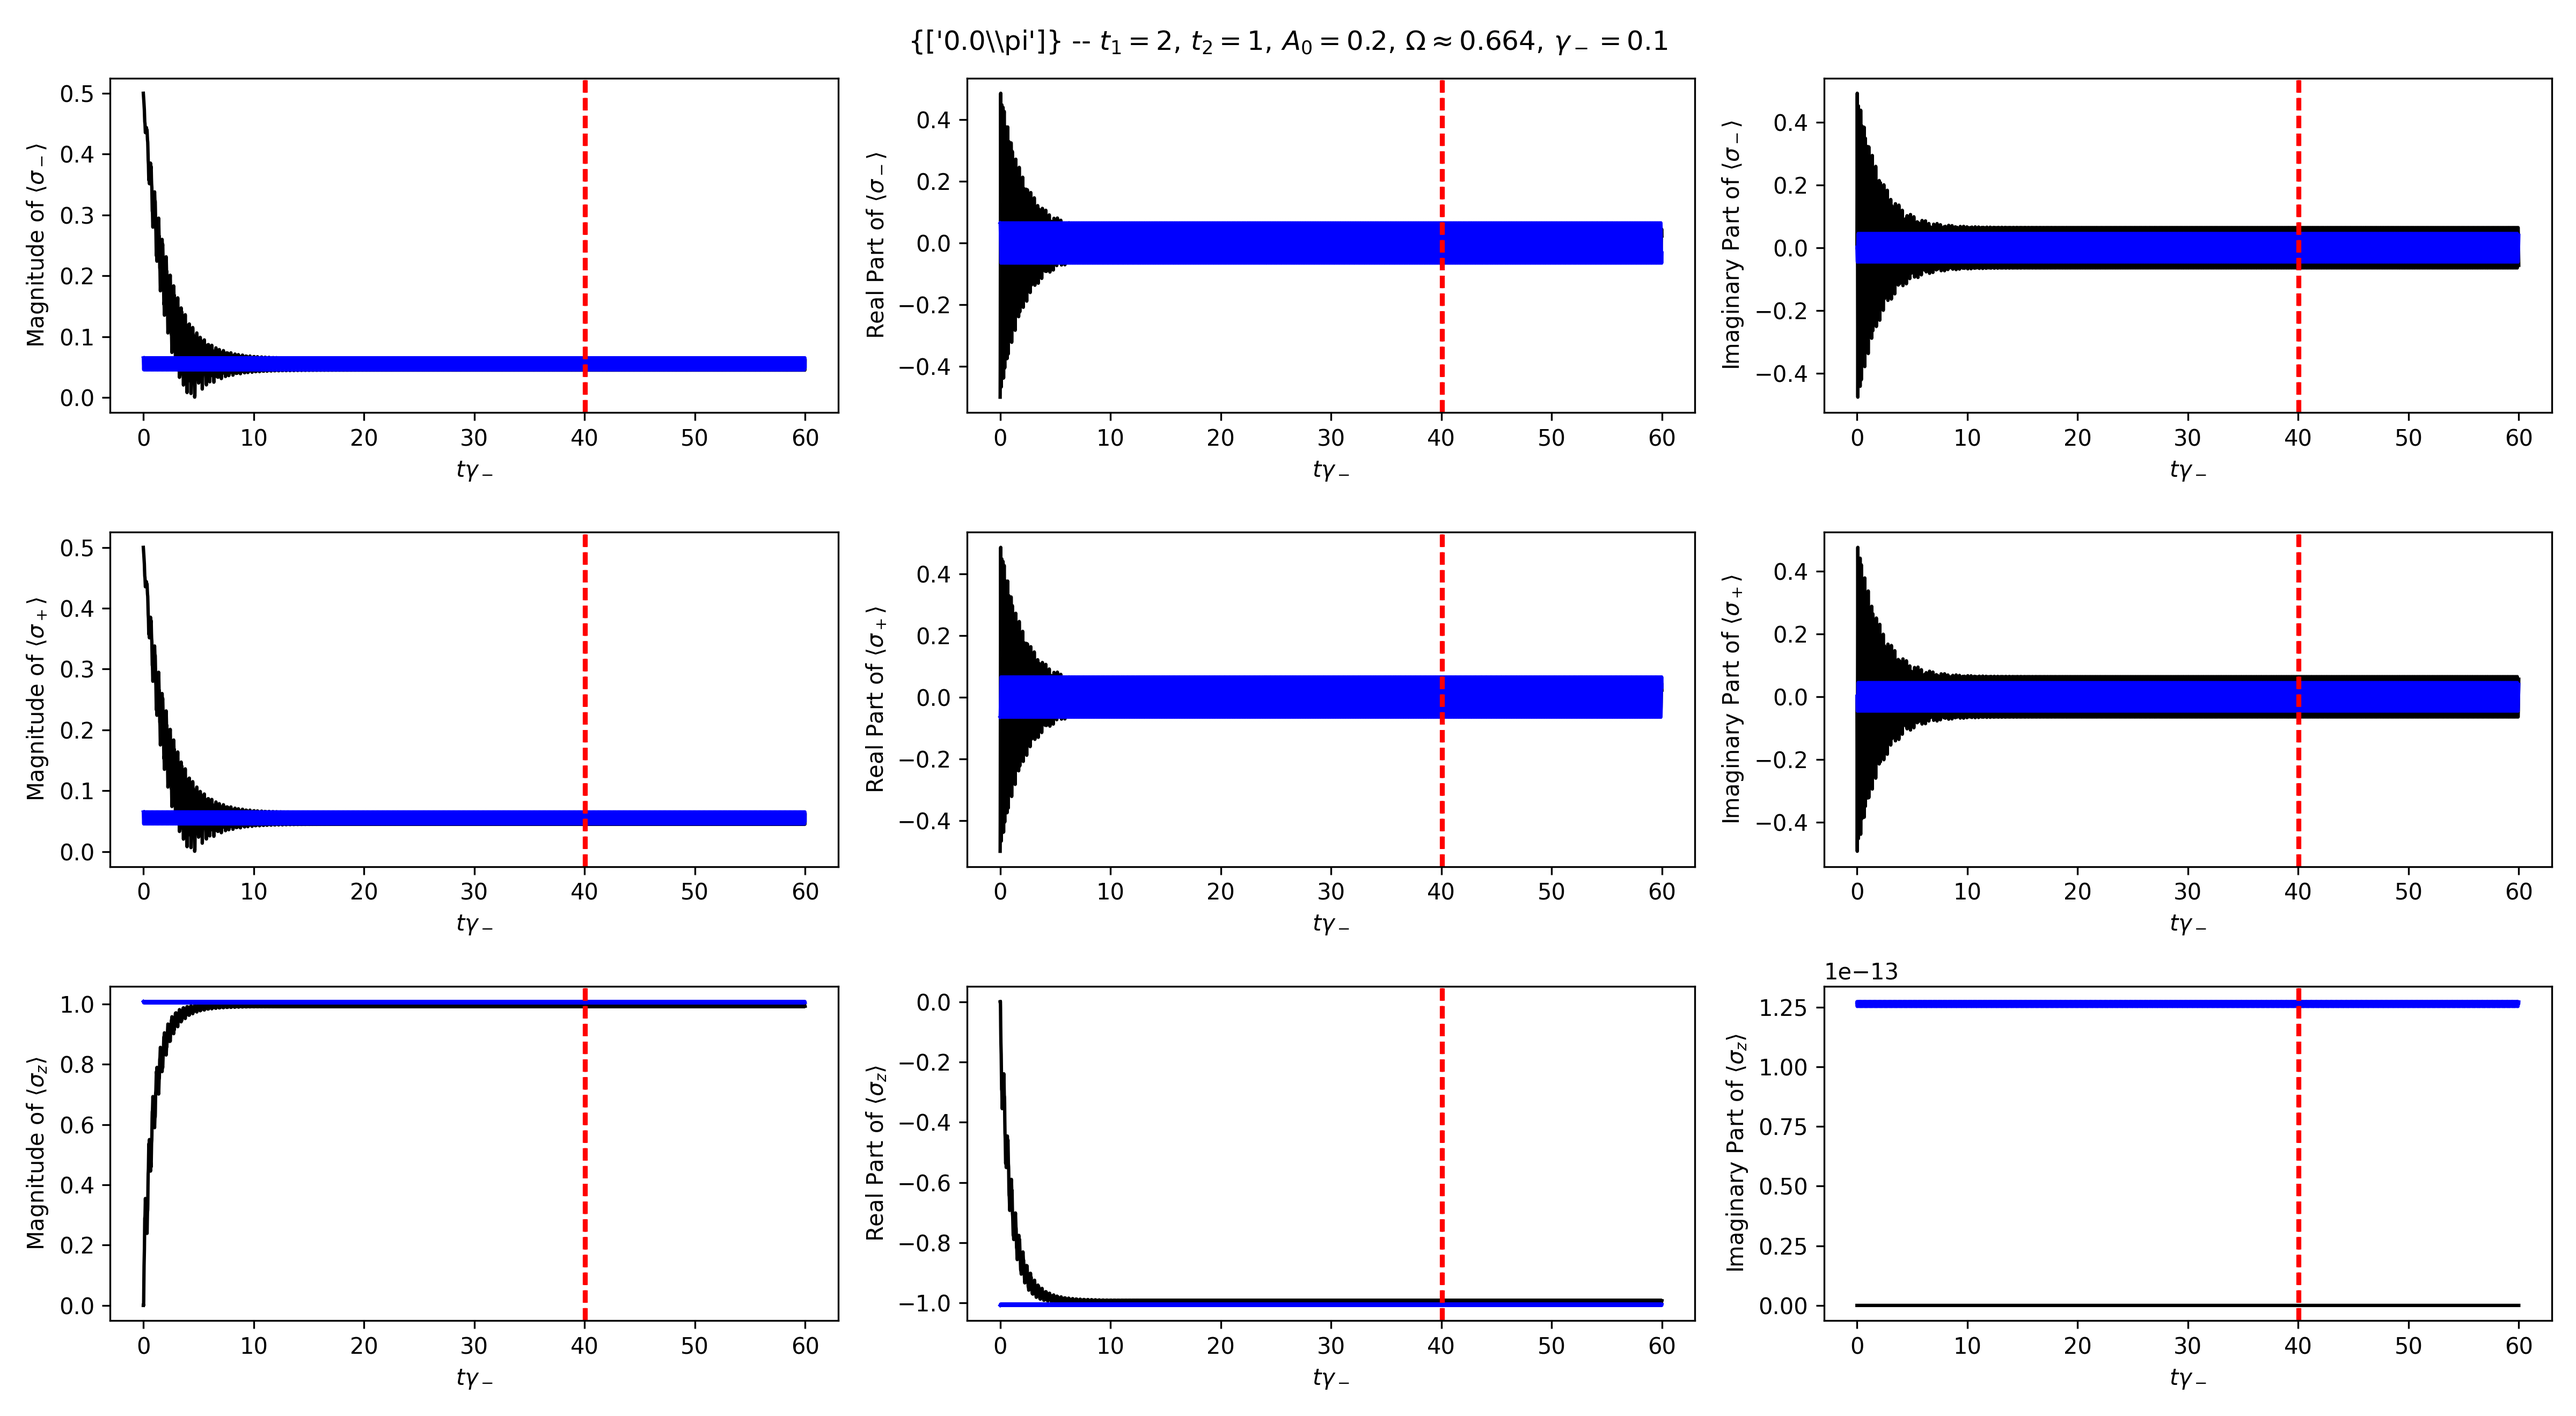
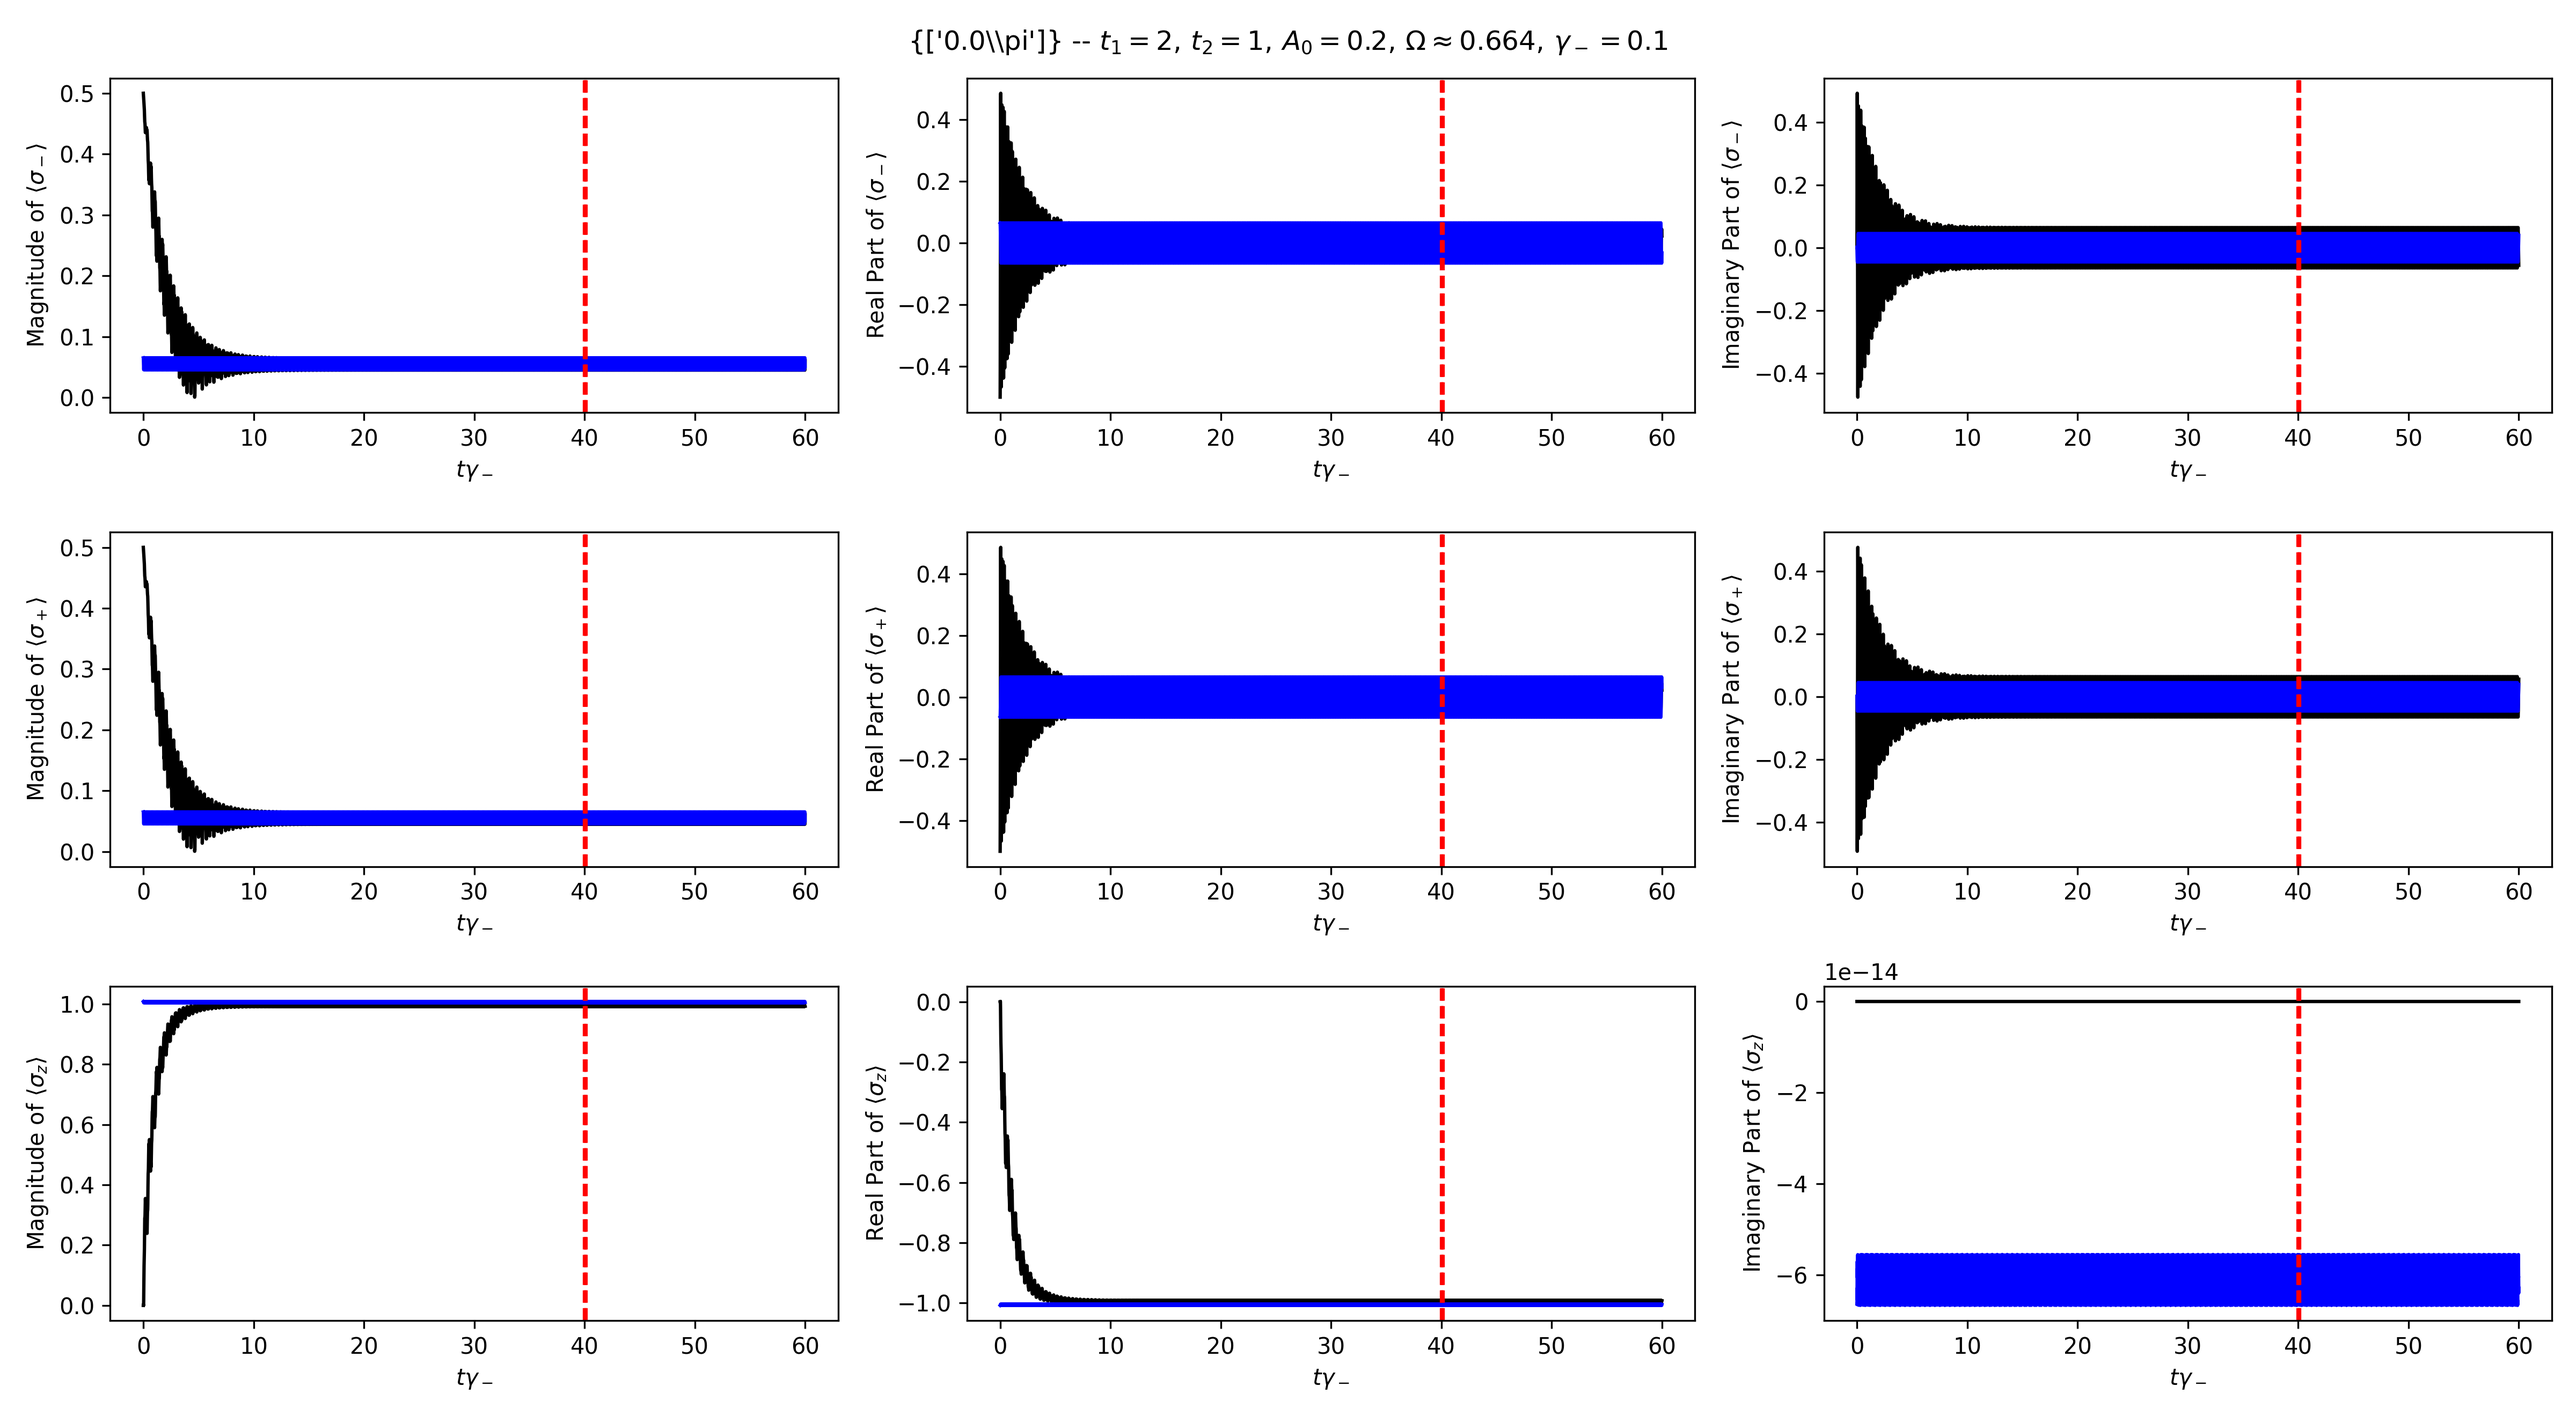
Tried with more coefficients, didn't fix the problem.

Changed region(s): [[0.7188, 0.8697, 1.0, 0.9318], [0.7188, 0.6833, 0.9688, 0.7144], [0.6562, 0.7455, 0.6875, 0.9008]]

diff --git a/1d-ssh-model.py b/1d-ssh-model.py
@@ -21,7 +21,7 @@ if __name__ == "__main__":
         decayConstant = 0.1,
         drivingAmplitude = 0.2, # 0.2
         drivingFreq = 2 / 3.01,
-        maxN = 11
+        maxN = 30
     )
 
     sim = SSHSimulation(params)
